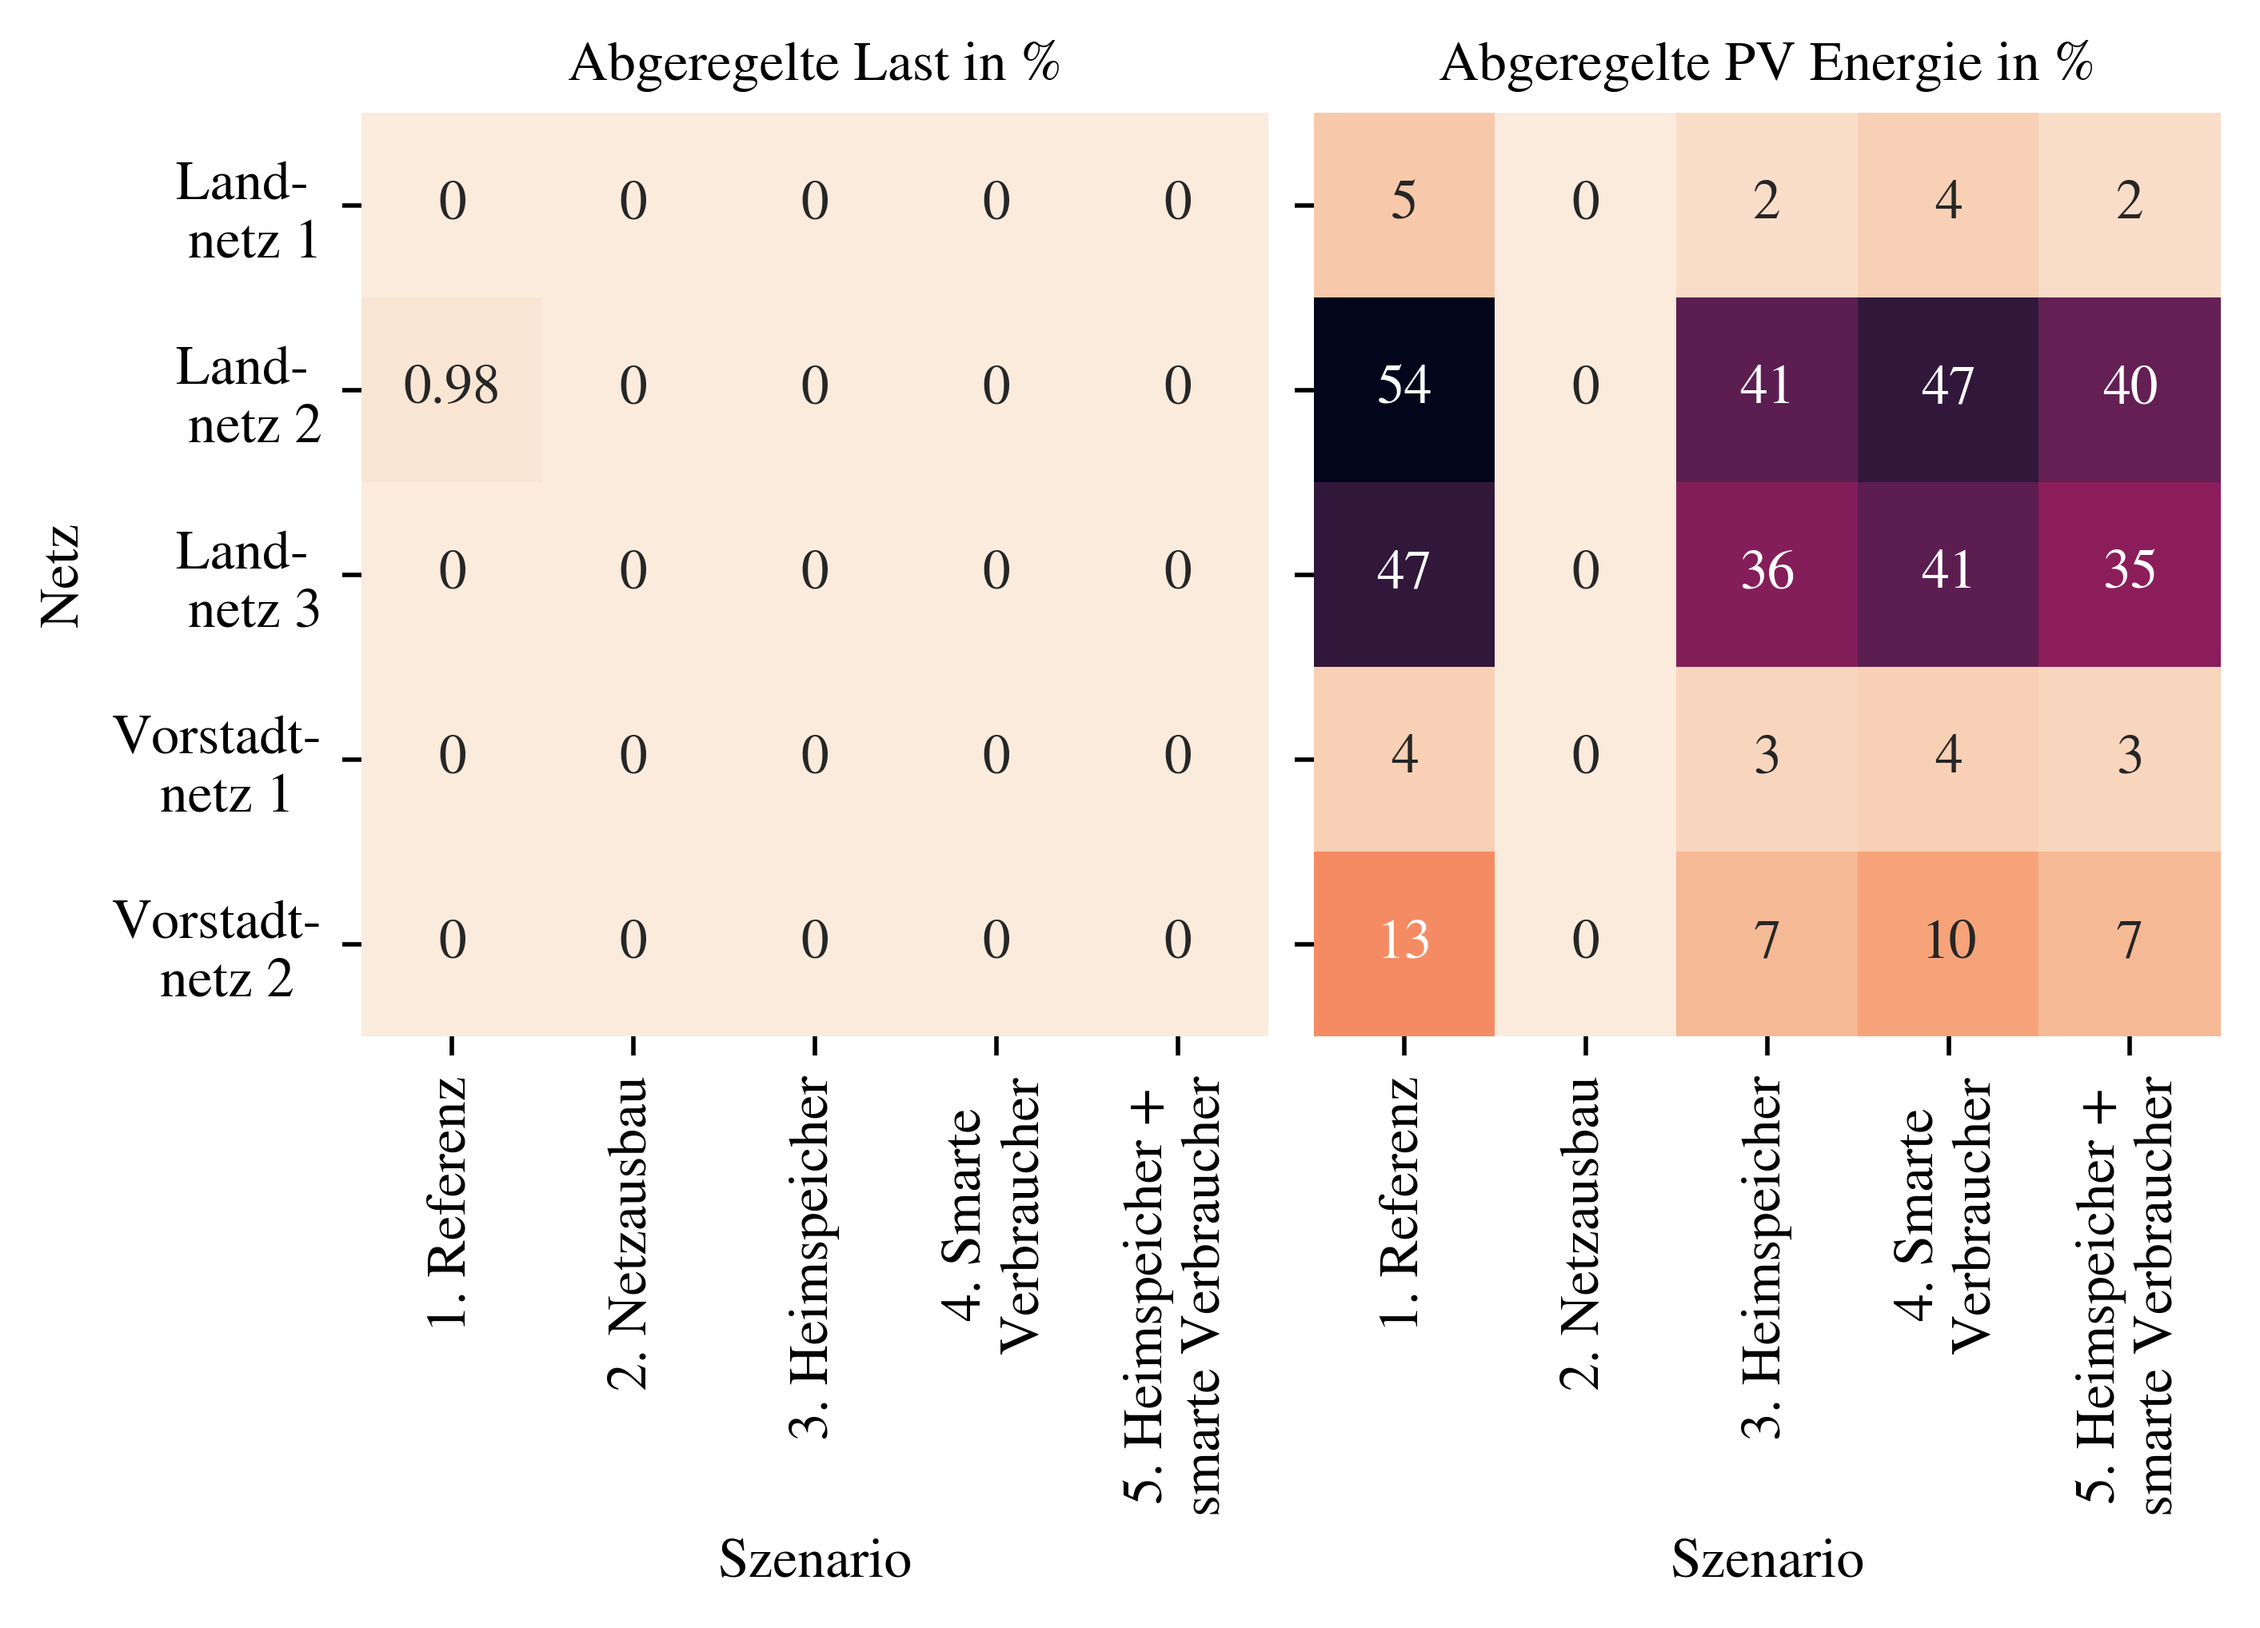
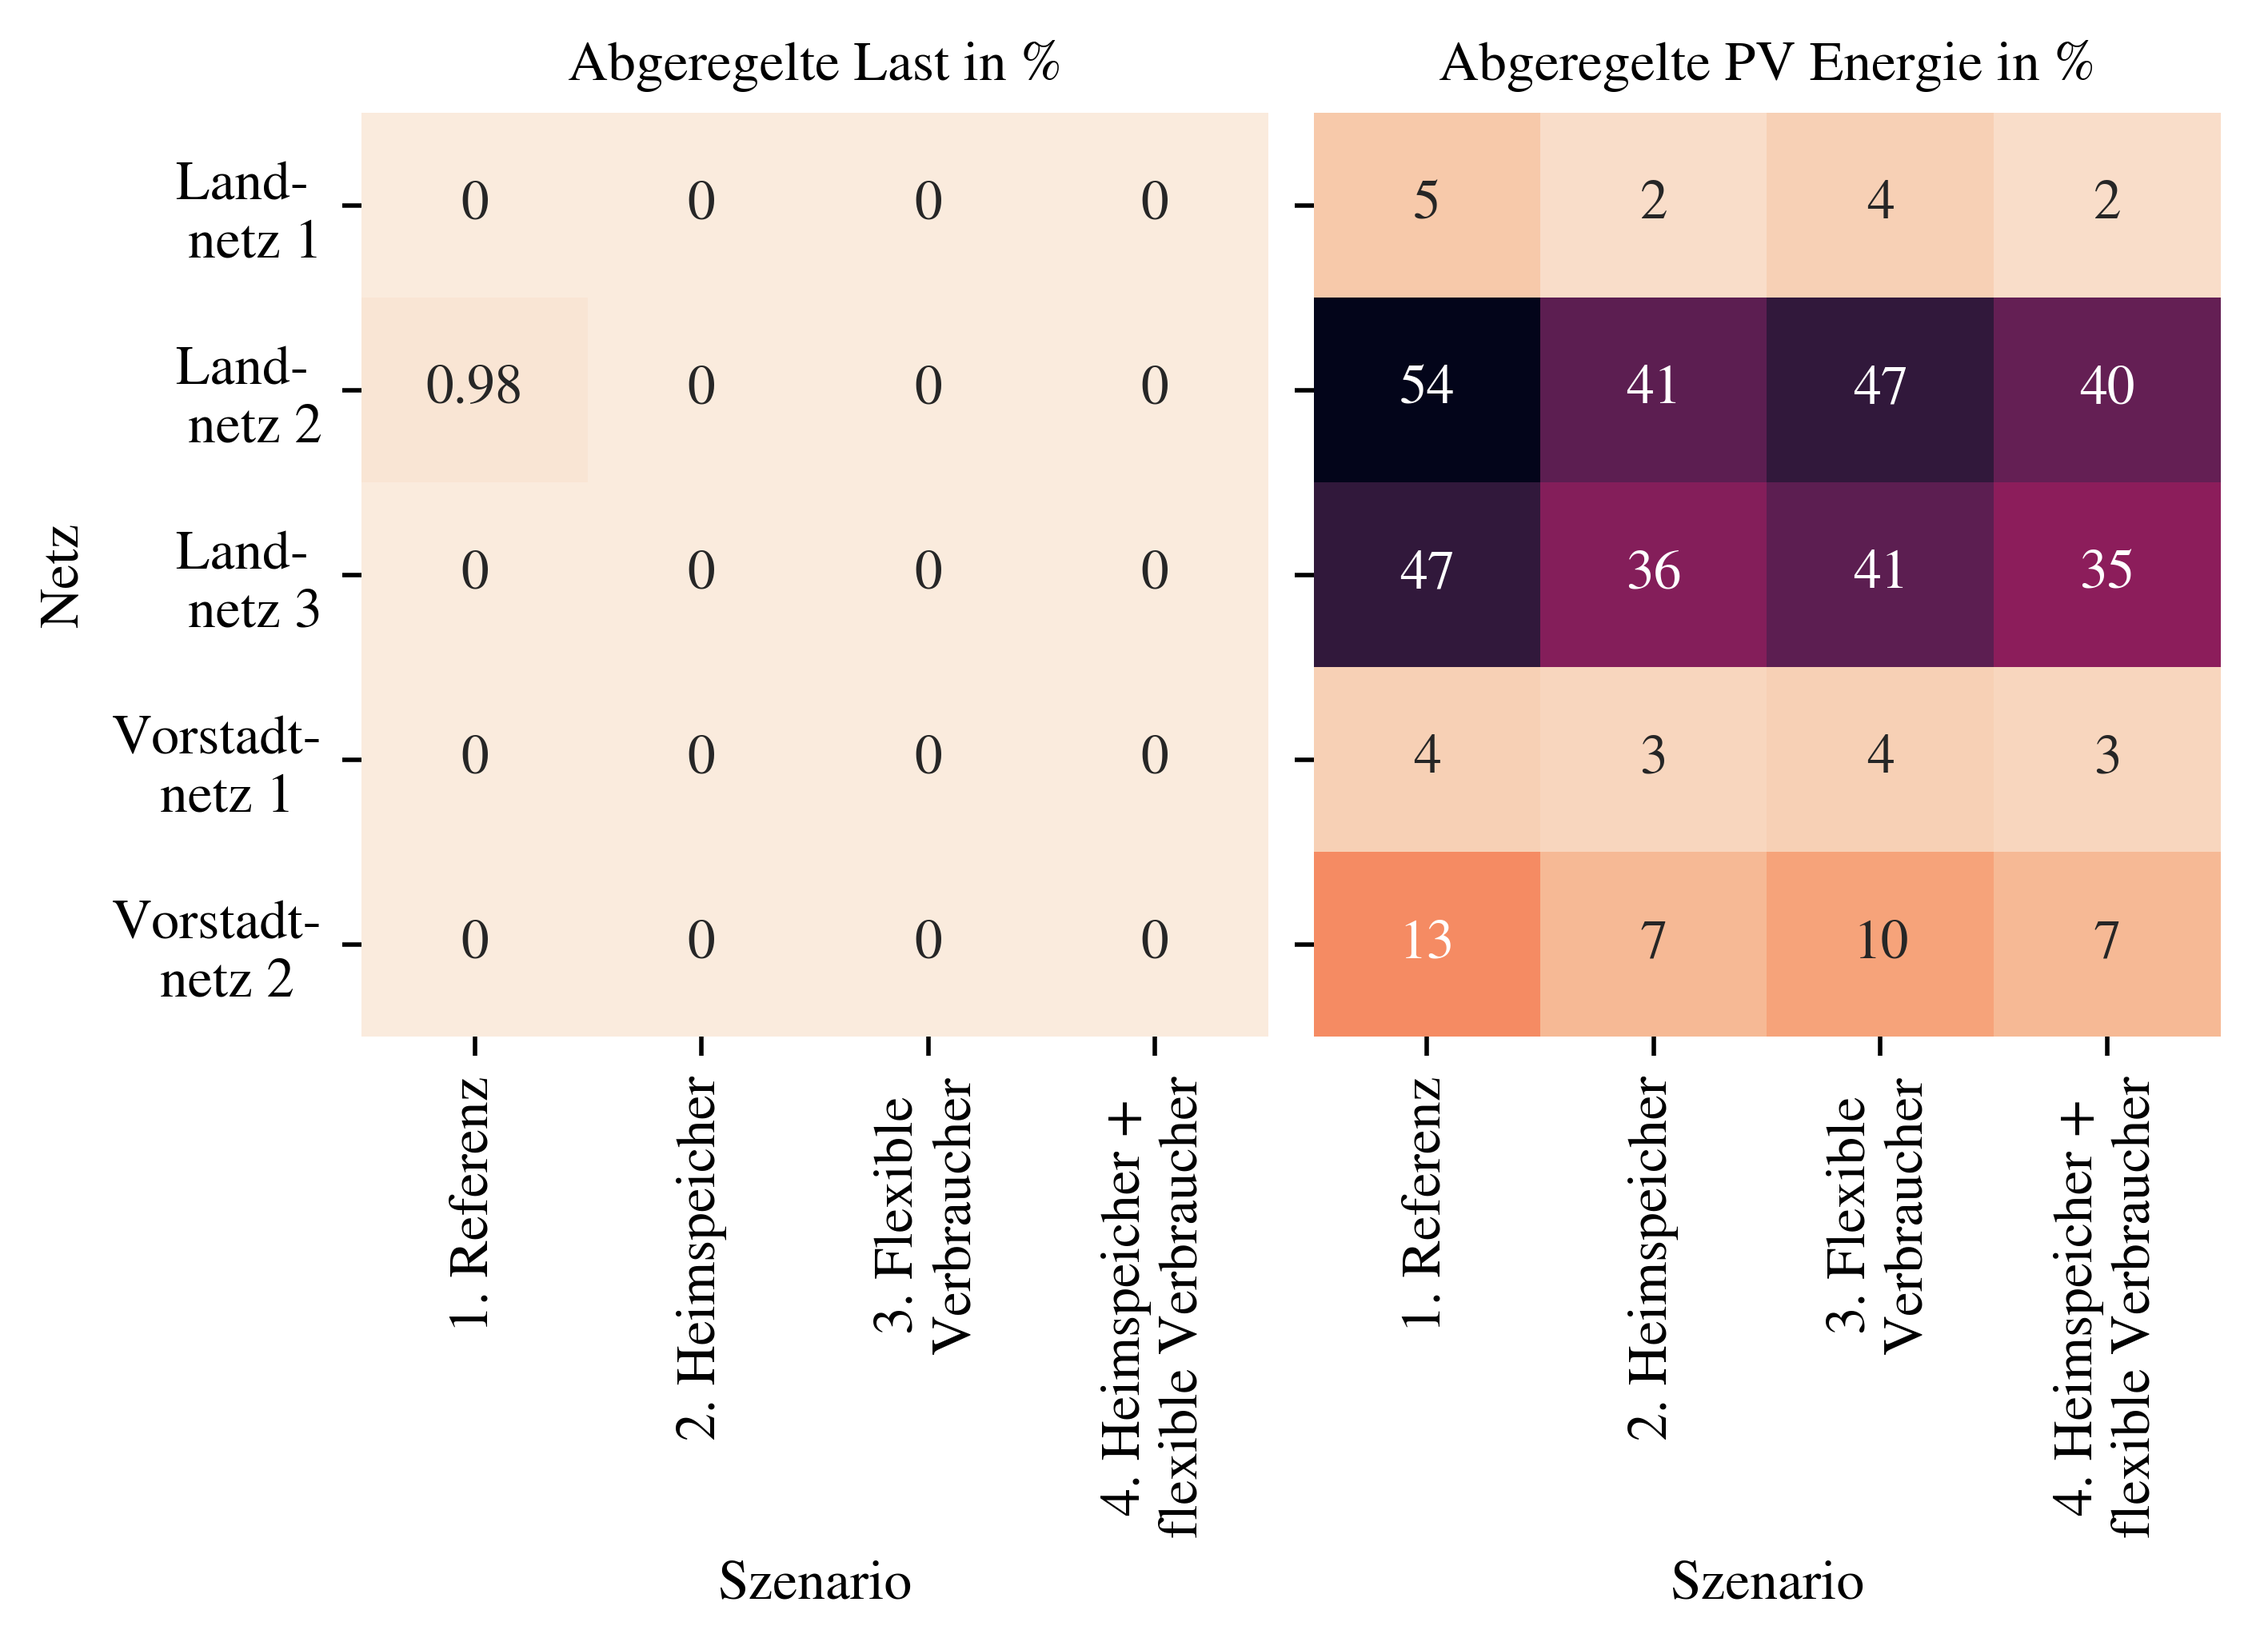
Add

diff --git a/src/main_EVA.py b/src/main_EVA.py
@@ -173,11 +173,11 @@ evaluation.plot_heatmap_componentloading_mean_peak(eva, net_name, columns_scenar
 #scenarios = ['1000000', '2001110', '3100010', '4101110', '6111110', '6121110', '6131110', '6141110', '6151110', '7103310', '8133310']
 #scenarios = ['4101110', '6111110', '6121110', '6131110', '6141110', '6151110']
 #scenarios = ['4101110', '6131110', '7103310', '8133310', '9133310']
-scenarios = ['4101110', '4101101', '6131110', '7103310', '8133310']
+scenarios = ['4101110', '6131110', '7103310', '8133310']
 eva = load_scenario_data(scenarios)
 #evaluation.plot_heatmap_curtailed_power(eva, net_name, columns_scenarios = ['1000000', '2001110', '3100010', '4101110'], x_ticklabels = ['1', '2', '3', '4'], save_fig_dir=save_fig_dir+'0')
 #evaluation.plot_heatmap_curtailed_power(eva, net_name, columns_scenarios = ['4101110', '6111110', '6121110', '6131110', '6141110', '6151110'], x_ticklabels = ['Reference', 'd-HBSS', 'p-HBSS', 'pc-HBSS', 'pc-CBSS-LVBB', 'pc-CBSS-line'], save_fig_dir=save_fig_dir+'1')
-evaluation.plot_heatmap_curtailed_power(eva, net_name, columns_scenarios = ['4101110', '4101101', '6131110', '7103310', '8133310'], x_ticklabels = ['1. Referenz', '2. Netzausbau', '3. Heimspeicher', '4. Smarte\nVerbraucher', '5. Heimspeicher +\nsmarte Verbraucher'], save_fig_dir=save_fig_dir+'2')
+evaluation.plot_heatmap_curtailed_power(eva, net_name, columns_scenarios=['4101110', '6131110', '7103310', '8133310'], x_ticklabels = ['1. Referenz', '2. Heimspeicher', '3. Flexible\nVerbraucher', '4. Heimspeicher +\nflexible Verbraucher'], save_fig_dir=save_fig_dir+'2')
 #evaluation.plot_heatmap_curtailed_power(eva, net_name, columns_scenarios = ['4101110', '6131110', '7103310', '8133310'], x_ticklabels = ['Reference', 'Home\nBSS', 'Smarte\nconsumers', 'BSS +\nsmarte Con.'], save_fig_dir=save_fig_dir+'3')
 #'''
 
@@ -192,7 +192,7 @@ evaluation.plot_heatmap_curtailed_power(eva, net_name, columns_scenarios = ['410
 #evaluation.plot_heatmap_self_sufficiency(eva, net_name, columns_scenarios=['4101110', '6131110', '7103310', '8133310', '9133310'], x_ticklabels = ['4', '6', '7', '8', '9'], n=n, save_fig_dir=save_fig_dir+'2')
 #evaluation.plot_heatmap_self_sufficiency(eva, net_name, columns_scenarios=['4101110', '6111110', '6121110', '6131110', '6141110', '6151110', '7103310', '8133310'], x_ticklabels = ['4', '5a', '5b', '5c HH', '5c CBSS-LV', '5c CBSS feeder', '6', '7'], n=n, save_fig_dir=save_fig_dir+'3')
 #evaluation.plot_heatmap_self_sufficiency(eva, net_name, columns_scenarios=['4101110', '6131110', '7103310', '8133310'], x_ticklabels = ['Reference', 'Home\nBSS', 'Smarte\nconsumers', 'BSS +\nsmarte Con.'], n=n, save_fig_dir=save_fig_dir+'4')
-evaluation.plot_heatmap_self_sufficiency(eva, net_name, columns_scenarios=['4101110', '4101101', '6131110', '7103310', '8133310'], x_ticklabels = ['1. Referenz', '2. Netzausbau', '3. Heimspeicher', '4. Smarte\nVerbraucher', '5. Heimspeicher +\nsmarte Verbraucher'], n=n, save_fig_dir=save_fig_dir+'4')
+evaluation.plot_heatmap_self_sufficiency(eva, net_name, columns_scenarios=['4101110', '6131110', '7103310', '8133310'], x_ticklabels = ['1. Referenz', '2. Heimspeicher', '3. Flexible\nVerbraucher', '4. Heimspeicher +\nflexible Verbraucher'], n=n, save_fig_dir=save_fig_dir+'4')
 #'''
 
 # --- Curtailment: PV-Power and Load (Season - Grid) --- #

diff --git a/src/tools/evaluation/Evaluation.py b/src/tools/evaluation/Evaluation.py
@@ -1551,6 +1551,8 @@ def plot_heatmap_curtailed_power(eva, net_name, columns_scenarios, x_ticklabels,
     ax[1].set(xlabel='Szenario', ylabel='')
     ax[0].set_title('Abgeregelte Last in %')
     ax[1].set_title('Abgeregelte PV Energie in %')
+    ax[0].set_xticklabels(ax[0].get_xticklabels(), rotation=90) 
+    ax[1].set_xticklabels(ax[1].get_xticklabels(), rotation=90) 
 
   if save_fig_dir is not None:
      plt.savefig(save_fig_dir + '00d_subplot_heatmap_curtailed_power_load.png', bbox_inches='tight', dpi=dpi)
@@ -1626,6 +1628,9 @@ def plot_heatmap_self_sufficiency(eva, net_name, columns_scenarios, x_ticklabels
   ax[0].set_yticklabels(y_ticklabels)
   ax[1].set_xticklabels(x_ticklabels)
   ax[1].set_yticklabels(y_ticklabels)
+  ax[0].set_xticklabels(ax[0].get_xticklabels(), rotation=90) 
+  ax[1].set_xticklabels(ax[1].get_xticklabels(), rotation=90) 
+
   if lan == 'EN':
     ax[0].set(xlabel='Scenario', ylabel='Grid')
     ax[1].set(xlabel='Scenario', ylabel='')
